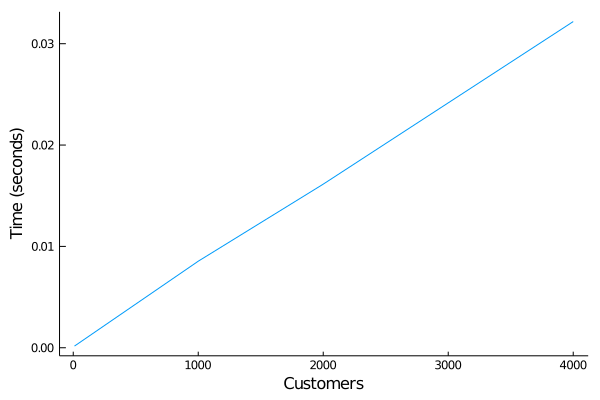
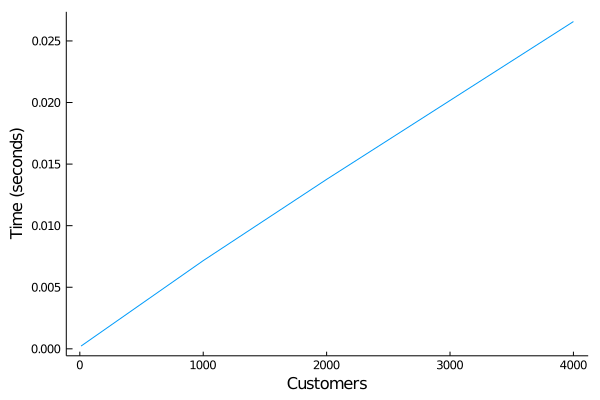
update queue_mmc benchmark results

diff --git a/benchmarks/queue_mmc/README.md b/benchmarks/queue_mmc/README.md
@@ -38,13 +38,13 @@ The **server model** (`bench_queue_mmc_srv.jl`)
 
 ![the server model](img/bench_queue_mmc_srv.png)
 
-As expected this faster than the modified model and scales well. Can we speed up this further by running it on a separate processor core?
+As expected, this is faster (0.55 s) than the modified model and scales well. Can we speed up this further by running it on a separate processor core?
 
 The **server model on thread 2** (`bench_queue_mmc_srv1.jl`)
 
 ![the server model on thread 2](img/bench_queue_mmc_srv1.png)
 
-Now it takes about 30 ms for 4000 customers.
+Now it takes about 27 ms for 4000 customers.
 
 ## An activity based solution
 
@@ -54,7 +54,7 @@ The **activity based model** (`bench_queue_mmc_act.jl`)
 
 ![the activity based model](img/bench_queue_mmc_act.png)
 
-This takes about 60 ms for 4000 customers. It is slower than the last one since it has to check for conditions with clock sampling.
+This takes about 68 ms for 4000 customers. It is slower than the last one since it has to check for conditions with clock sampling.
 
 ## Conclusion
 
